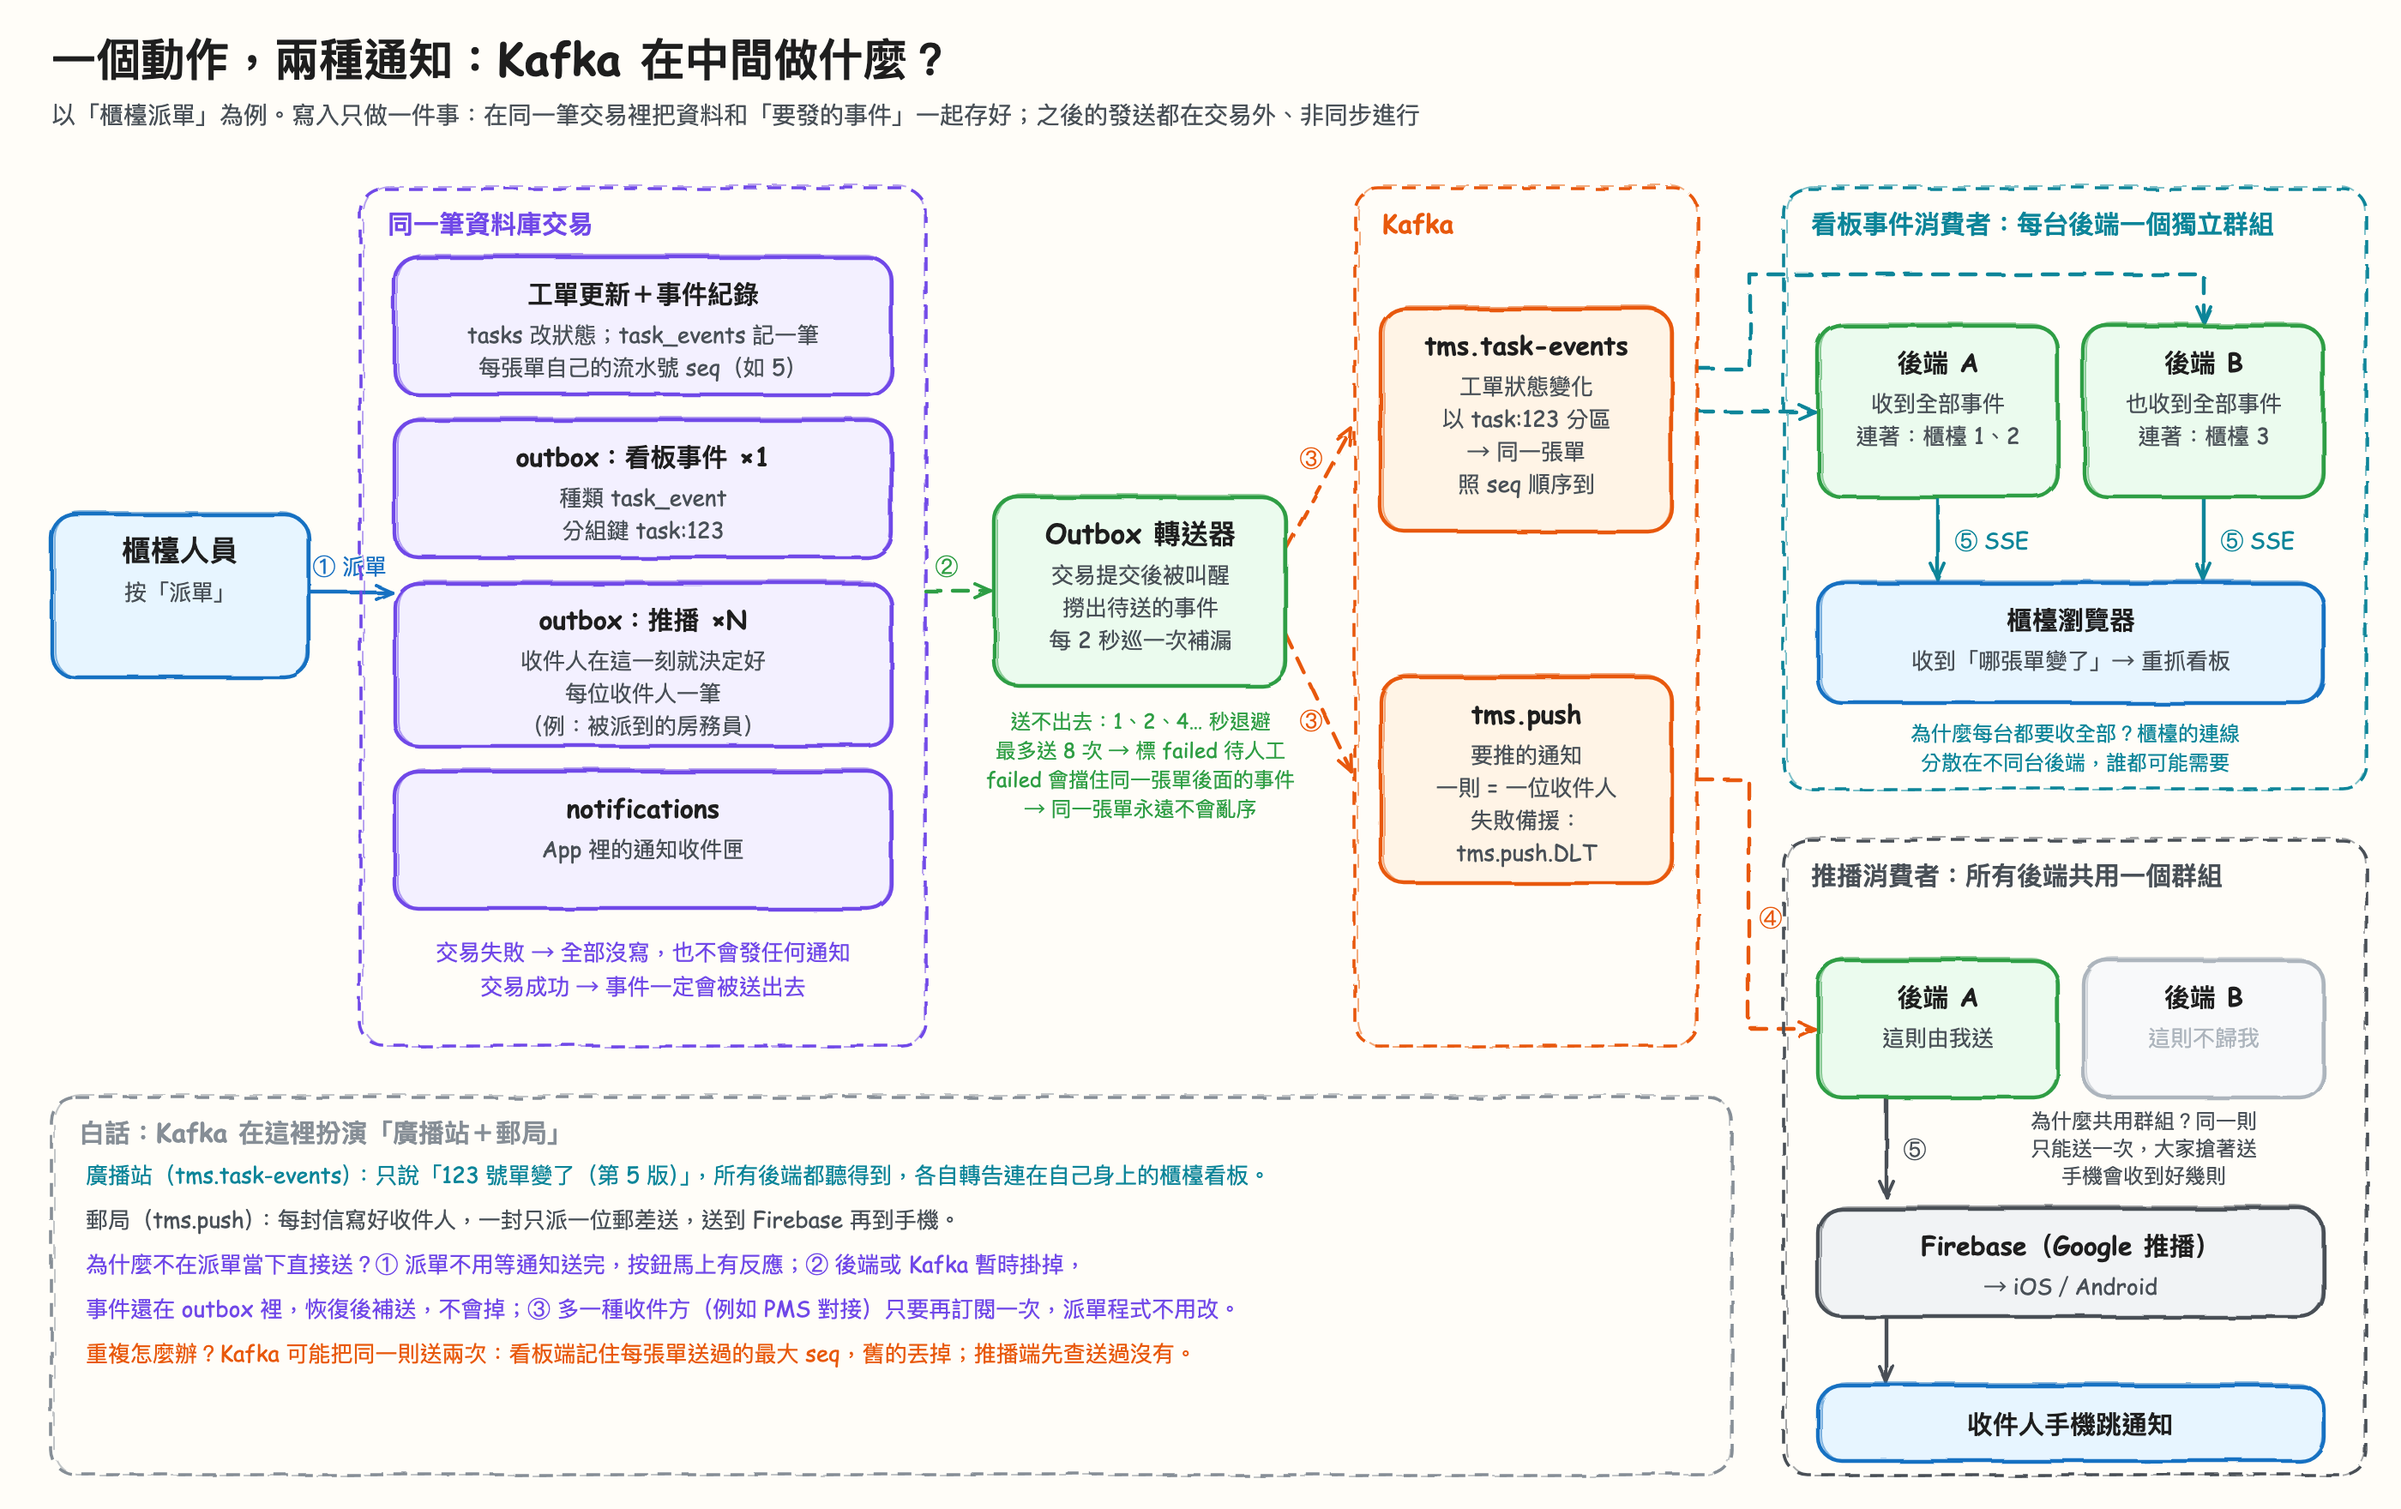
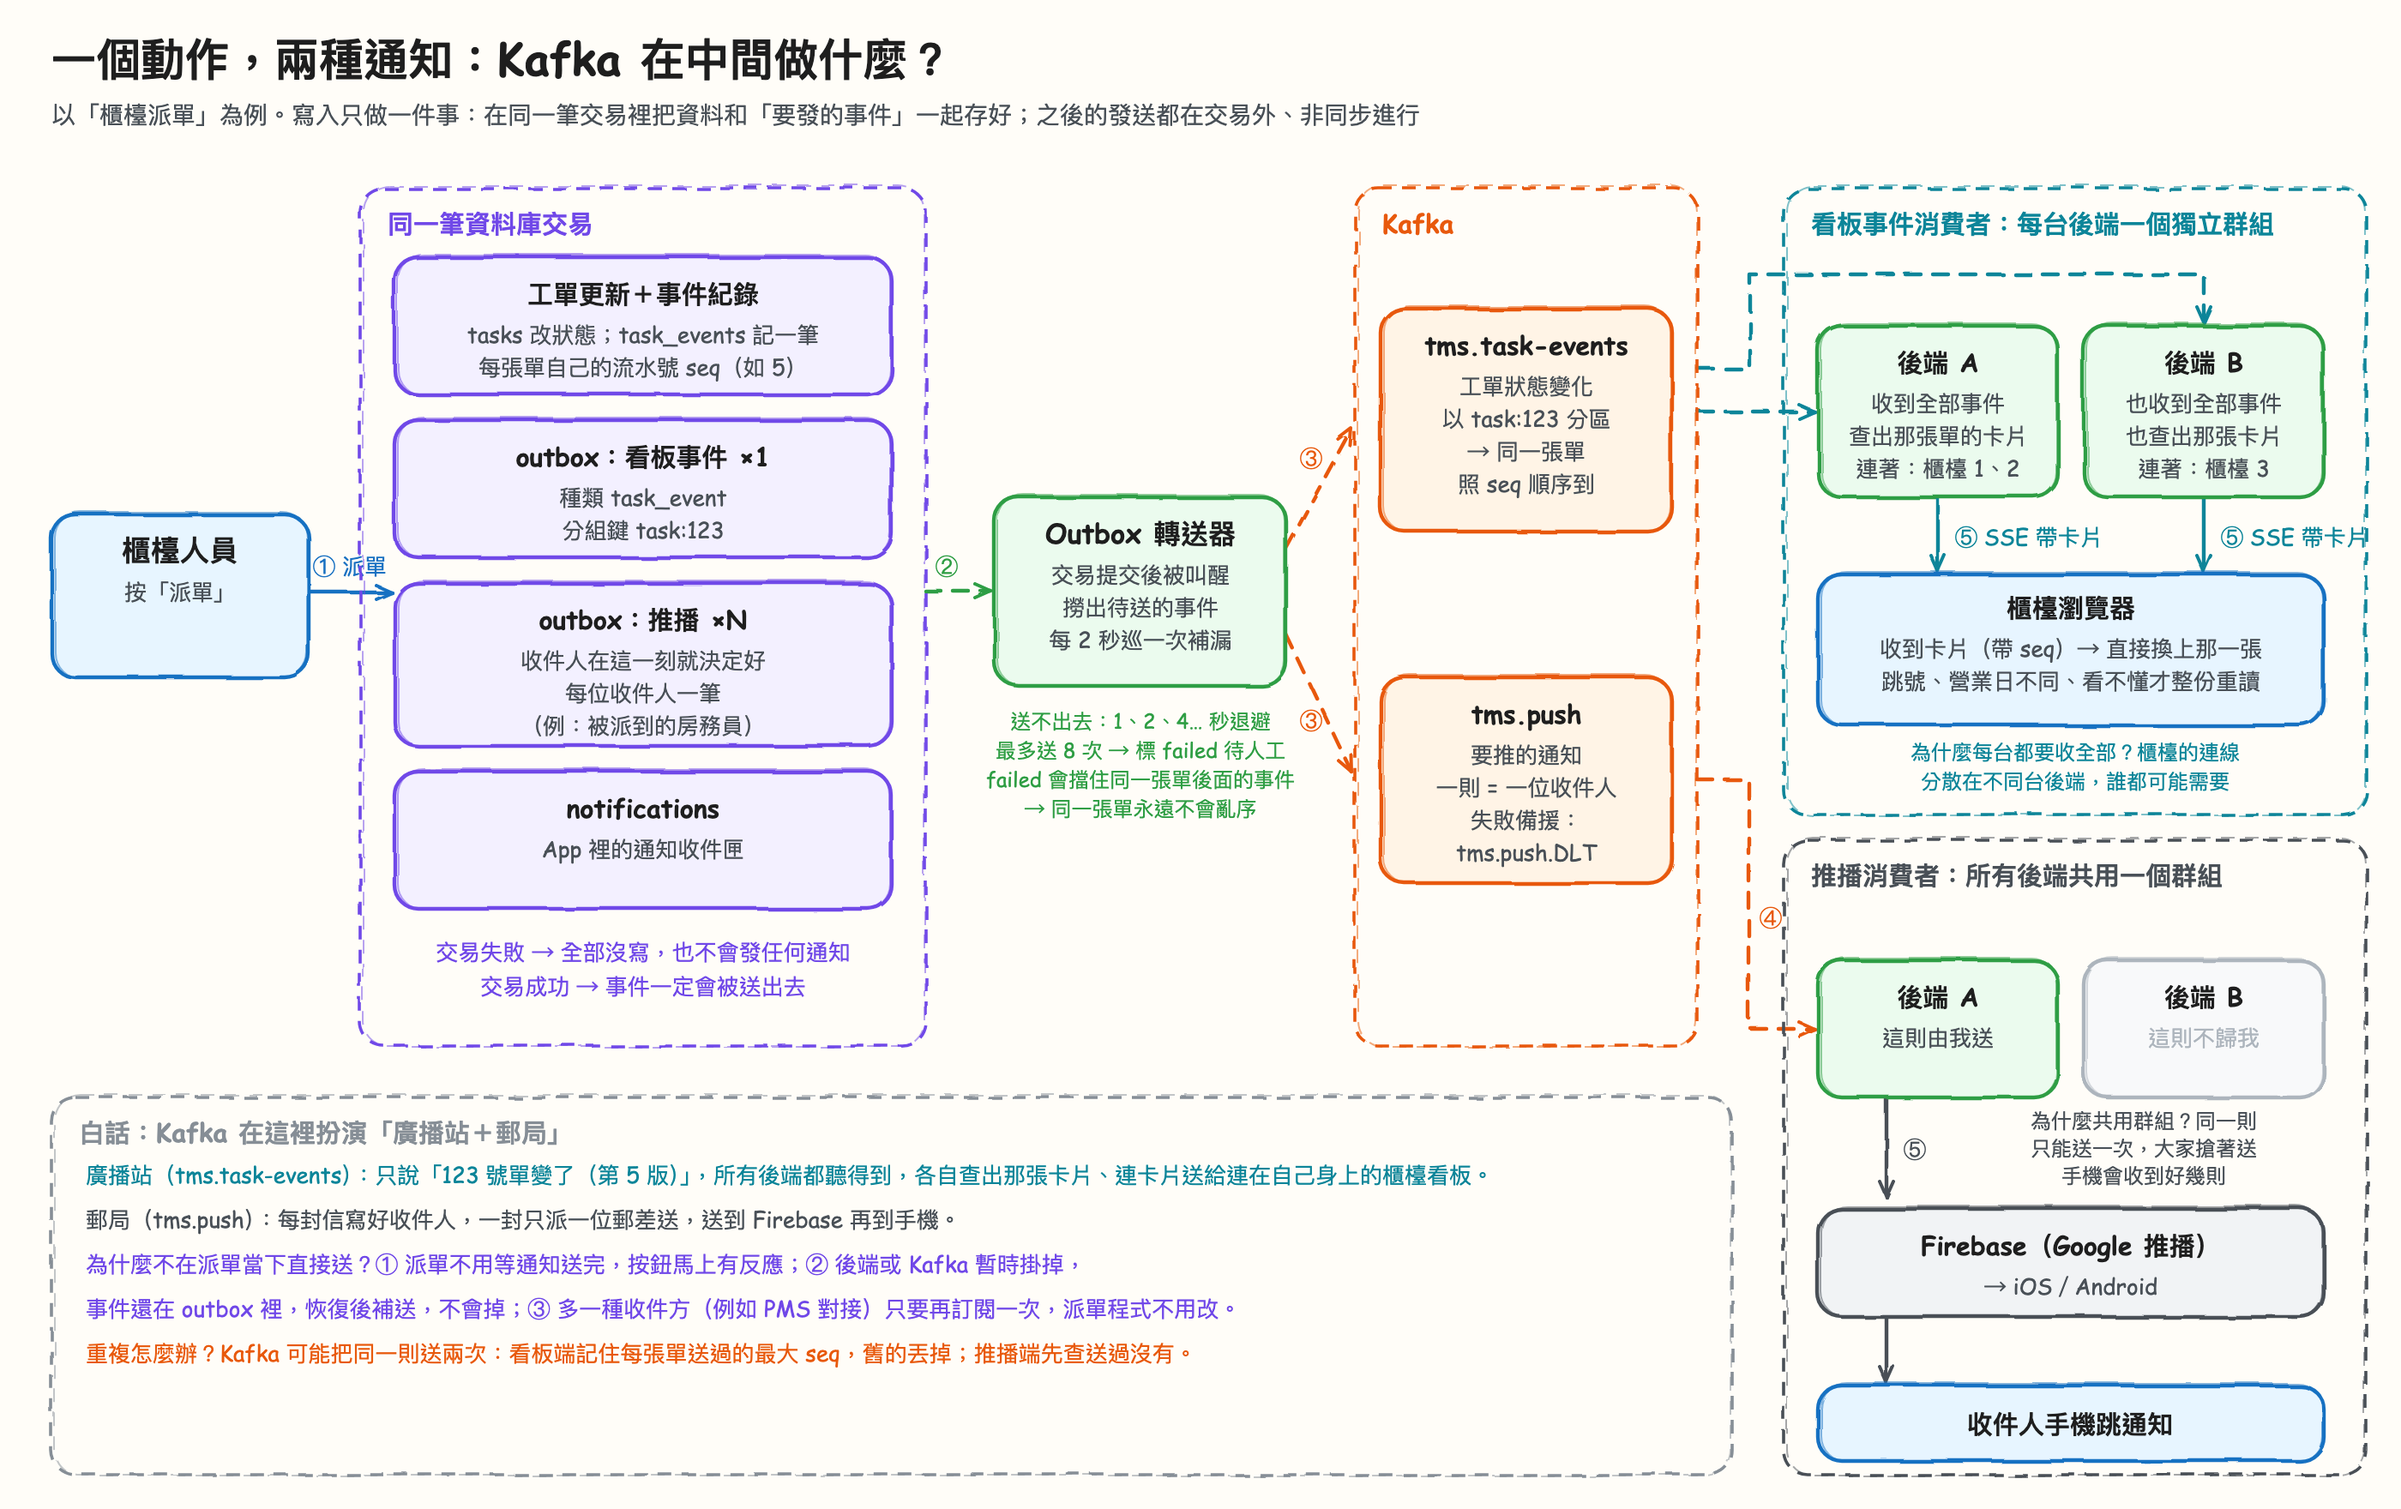
docs(readme): 看板訊號帶卡片直接換上、只在跳號或換日整份重讀，兩張 Kafka／SSE 圖同步改
- 後端收到 tms.task-events 後查出那張單的卡片，連卡片一起經 SSE 送給櫃檯看板
- 看板直接換上該卡片；跳號、營業日不同、看不懂、到了換日才整份重讀
- 降級時每 4 秒重讀（原文誤寫 5 秒）；斷線 1 秒後重連、之後每 5 秒試一次

diff --git a/README.md b/README.md
@@ -38,11 +38,14 @@
 
 以「櫃檯派單」為例：派單只在同一筆交易裡把工單和「要發的事件」一起存好，之後的發送都在交易外進行。
 Kafka 在中間扮演兩個角色——**廣播站**（`tms.task-events`）只說「哪張單變了」，每台後端都聽得到，
-各自轉告連在自己身上的櫃檯看板；**郵局**（`tms.push`）每則都寫好收件人，只派一台後端送到 Firebase 再到手機。
+各自查出那張單現在在看板上的樣子（卡片），連同卡片一起送給連在自己身上的櫃檯看板；
+**郵局**（`tms.push`）每則都寫好收件人，只派一台後端送到 Firebase 再到手機。
 
 ![一個動作，兩種通知：Kafka 在中間做什麼？](docs/diagrams/tms-kafka-flow.png)
 
-櫃檯看板收到的只是訊號，收到後自己重抓看板；連線出問題時改成每 5 秒自己重讀，重連後整份重讀。
+櫃檯看板收到的訊號帶著那張卡片和它的步數（seq），看板直接換上那一張，不用重抓；
+只有步數跳號、營業日不同、訊號看不懂、或到了換日時刻才整份重讀。
+連線出狀況時（後端說自己落後了、或太久沒消息）改成每 4 秒自己重讀；斷線 1 秒後重連、之後每 5 秒試一次，重連後整份重讀。
 推播則先查送過沒、查收件人的裝置，再交給 Firebase；暫時失敗會退避重試，仍失敗進 `tms.push.DLT` 待查。
 
 ![櫃檯看板（SSE）與手機推播：一步一步發生什麼？](docs/diagrams/tms-sse-push-detail.png)
